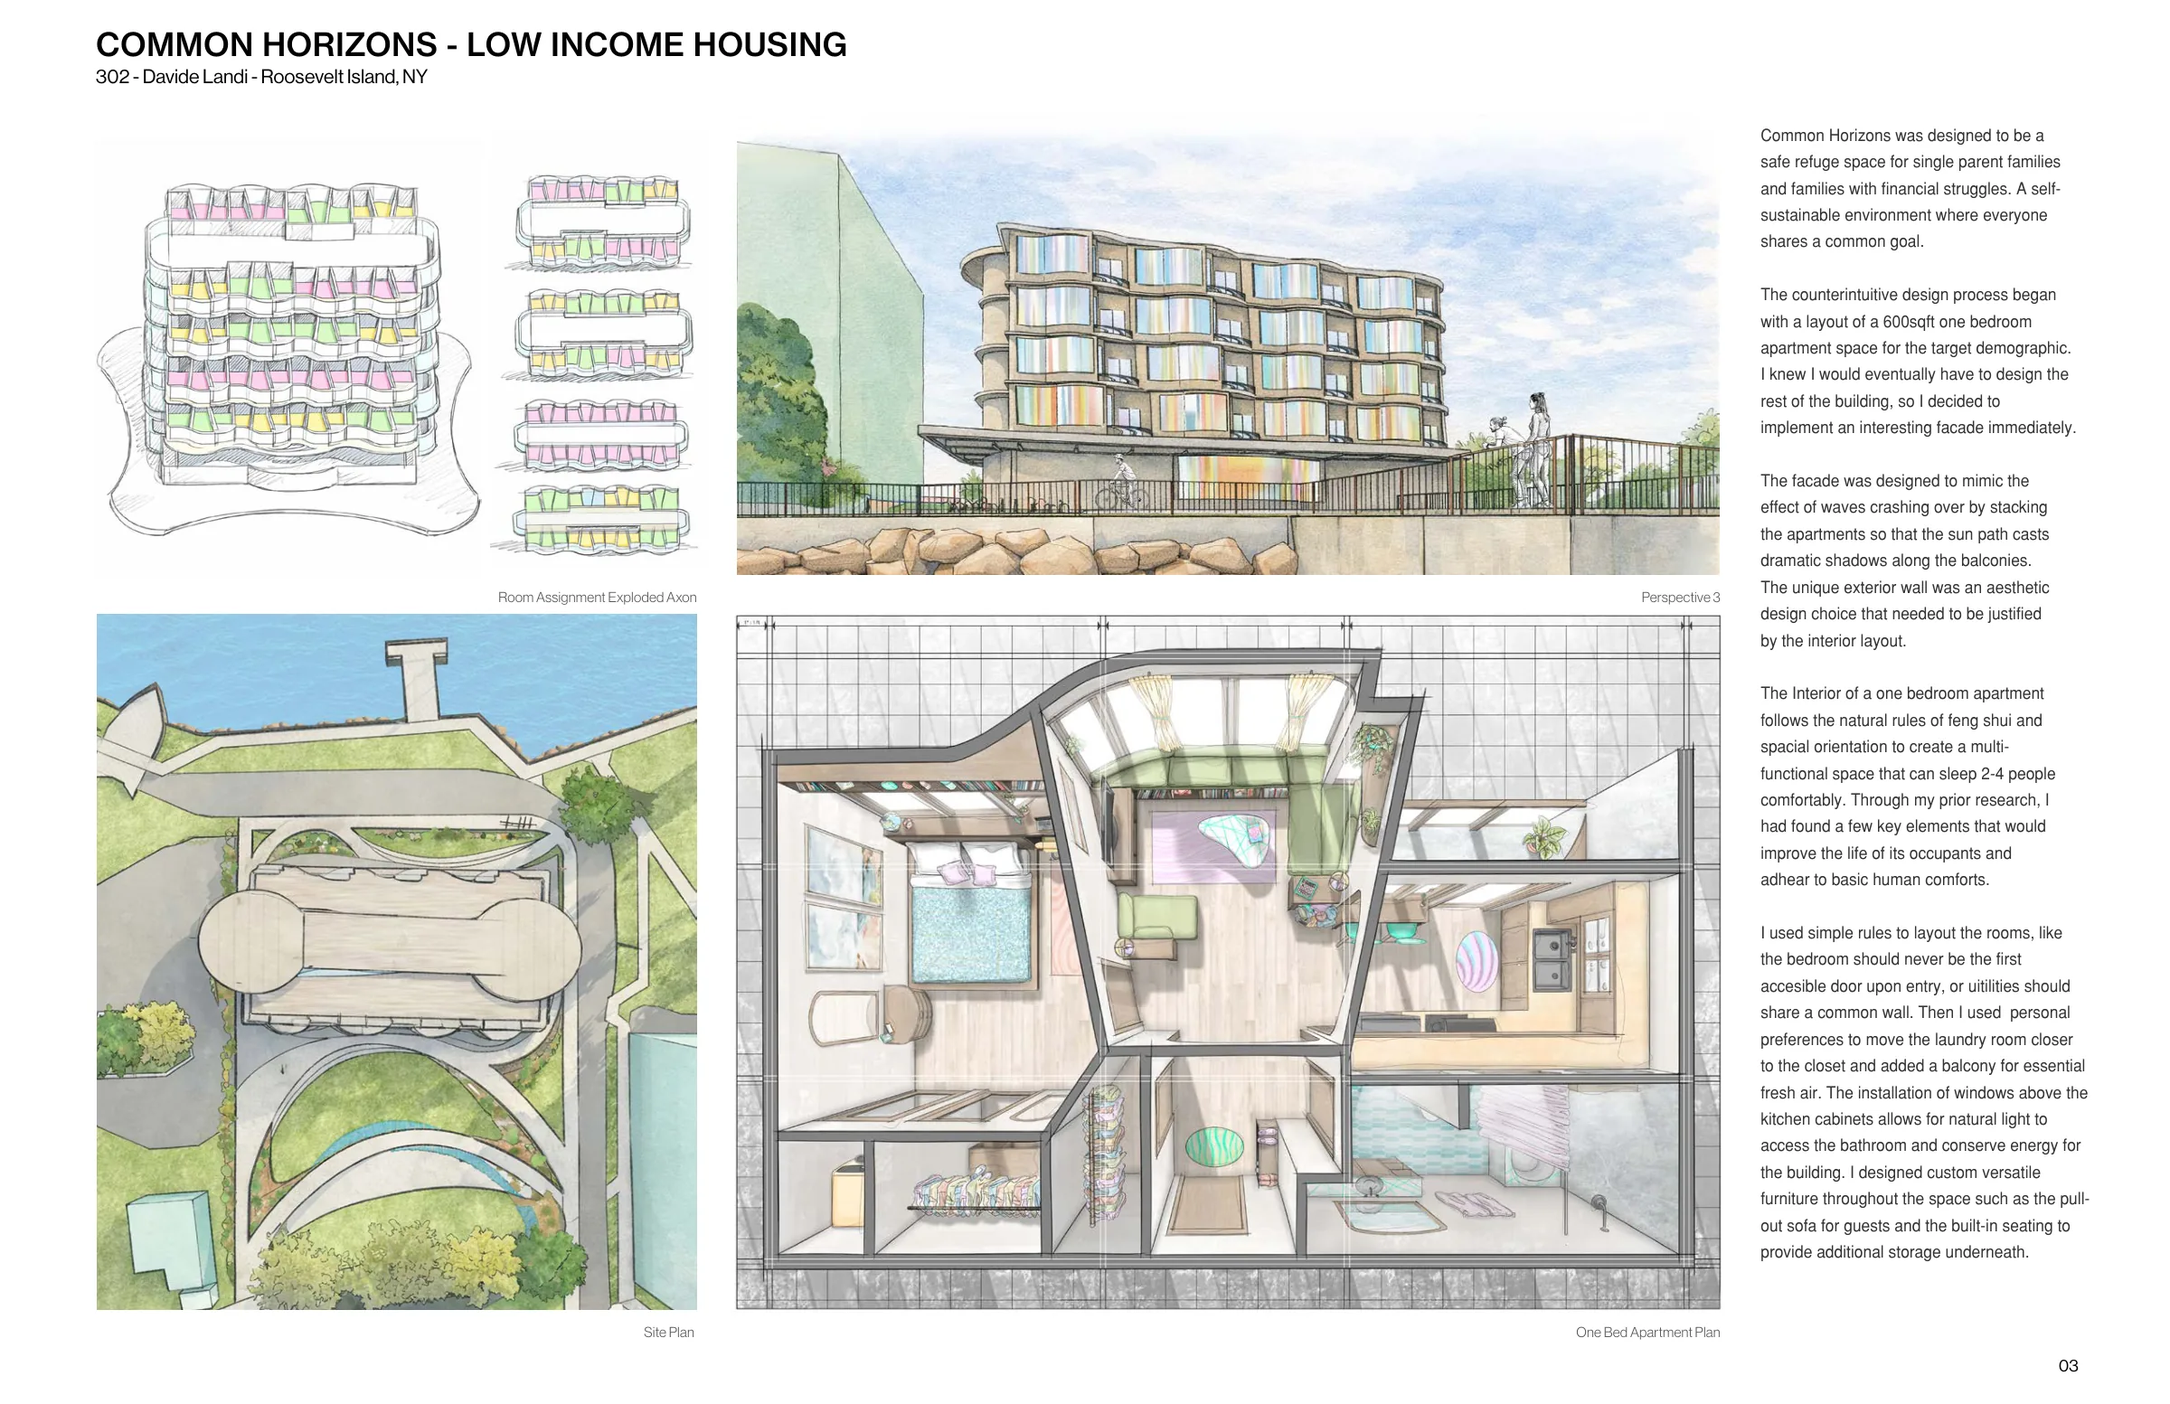
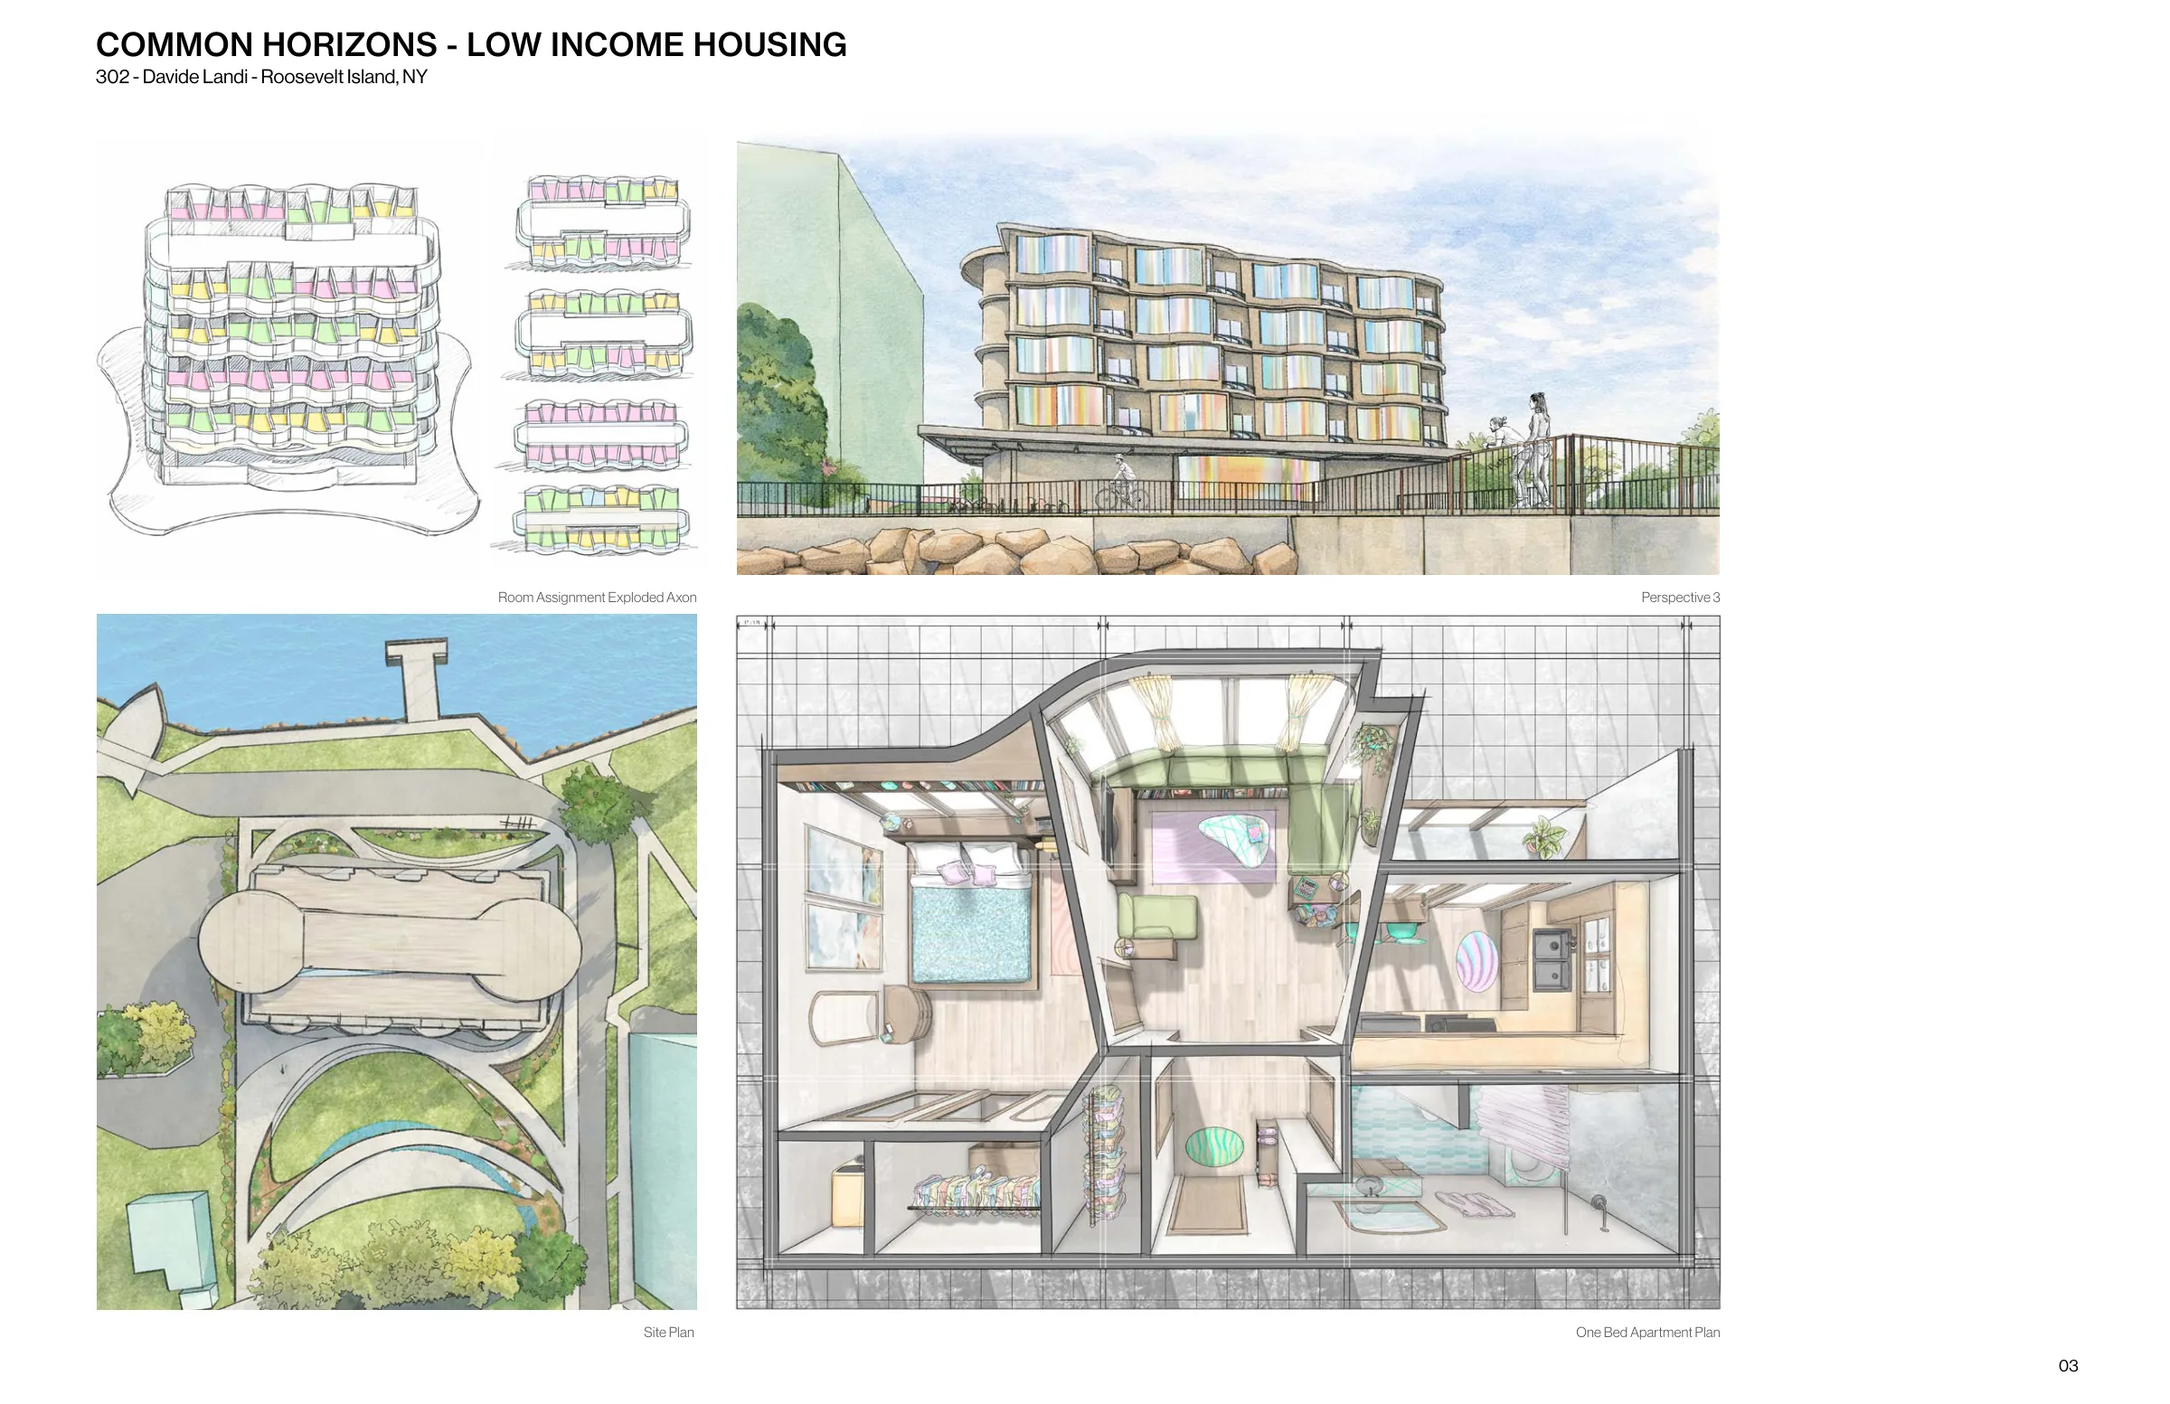
Move project write-ups onto each project's cover page
- Description paragraphs removed from the inner pages (4-5, 7-8, 10-11,
  13, 15-16, 18-20) and set as two-column text in the cover's white space
- Text is real HTML (Helvetica), ~15px on a laptop; single column on phones
- Site-plan legend on page 11 and drawing labels stay where they were

Changed region(s): [[0.8125, 0.4945, 0.9688, 0.8963], [0.8125, 0.0927, 0.9688, 0.3091], [0.8125, 0.34, 0.9375, 0.4636]]

diff --git a/index.html b/index.html
@@ -65,9 +65,18 @@
     </section>
 
     <section class="page" id="common-horizons" aria-label="Page 3 — Common Horizons">
-      <div class="page-head">
+      <div class="page-head has-text">
         <h2>COMMON HORIZONS - LOW INCOME HOUSING</h2>
         <p>302 - Davide Landi - Roosevelt Island, NY</p>
+        <div class="project-text">
+          <p>Roosevelt Island, the thin strip of land between Manhattan and Staten Island, is typically considered an undesirable and innaccessible spot for native New Yorkers. People commute along the A Line every day over the island, but few get off to their final destination.</p>
+          <p>The Common Horizon housing project for low income families utilizes the isolated nature of Roosevelt Island to help people get back on their feat. The housing development is aimed toward finding employment and purpose which are integral for life satisfaction. Cafes, vegetable gardens, therapy groups, daycare, and job application mentorship foster a self-sustaining environment for struggling families to thrive.</p>
+          <p>Common Horizons was designed to be a safe refuge space for single parent families and families with financial struggles. A self-sustainable environment where everyone shares a common goal.</p>
+          <p>The counterintuitive design process began with a layout of a 600sqft one bedroom apartment space for the target demographic. I knew I would eventually have to design the rest of the building, so I decided to implement an interesting facade immediately.</p>
+          <p>The facade was designed to mimic the effect of waves crashing over by stacking the apartments so that the sun path casts dramatic shadows along the balconies. The unique exterior wall was an aesthetic design choice that needed to be justified by the interior layout.</p>
+          <p>The Interior of a one bedroom apartment follows the natural rules of feng shui and spacial orientation to create a multi-functional space that can sleep 2-4 people comfortably. Through my prior research, I had found a few key elements that would improve the life of its occupants and adhear to basic human comforts.</p>
+          <p>I used simple rules to layout the rooms, like the bedroom should never be the first accesible door upon entry, or uitilities should share a common wall. Then I used personal preferences to move the laundry room closer to the closet and added a balcony for essential fresh air. The installation of windows above the kitchen cabinets allows for natural light to access the bathroom and conserve energy for the building. I designed custom versatile furniture throughout the space such as the pull-out sofa for guests and the built-in seating to provide additional storage underneath.</p>
+        </div>
       </div>
       <div class="sheet">
         <img src="assets/pages/page-03.webp" width="2400" height="1553" loading="lazy" alt="Common Horizons — Spring 2024, individual project.">
@@ -81,9 +90,20 @@
     </section>
 
     <section class="page" id="carnegie-library" aria-label="Page 6 — Carnegie Library Reuse &amp; Community Center">
-      <div class="page-head">
+      <div class="page-head has-text">
         <h2>CARNEGIE LIBRARY REUSE &amp; COMMUNITY CENTER</h2>
         <p>401 - Shelby Doyle - Marshalltown, IA</p>
+        <div class="project-text">
+          <p>Through adaptive reuse and the addition of a large community center, the old Carnegie Public Library is reimagined to help the community and carry Andrew Carnegie's original intention of accessible public education.</p>
+          <p>Sitting in the heart of a once promising industrial town, the shell of the original Carnegie Public Library now acts as a storage shed for the city municipality.</p>
+          <p>Marshalltown, Iowa was an industrial hub for central Iowa in the early 20th century, but after its two major factories closed in the 80's, half the town's population found themselves unemployed. The city never quite recovered as drug abuse and crime rates became increasingly prevelant.</p>
+          <p>Unfortunately, many individuals are still dealing with the trauma of a struggling household, and the current state of poverty and drug afflictions are unmistakably clear.</p>
+          <p>After a major tornado struck Marshalltown in 2018, most of downtown sits in disrepair with many stores fronts and restaurants boarded up. The delapidated state of the city has had the largest impact on kids, as many come from struggling households that aren't receiving the resources they need because the school-board can't afford to help.</p>
+          <p>The Carnegie Library renovation and Community Center addition aims to provide a safe space for the community to learn and interact together. This would Ideally help adults and kids get off the street and into a stimulating environment that features a variety of activity spaces and resources geared towards building strong life skills.</p>
+          <p>The renovation of the Marshalltown Carnegie Library into an artist residency and community center aimed to revitalize and inspire the public through collaboration and access to a variety of creative spaces.</p>
+          <p>With the intention of preserving the frame of the original Carnegie Library, the 30,000 sqft addition had to complement the original Neoclassical style without copying it. The design uses a similar language of hierarchy, rythm, and symmetry, but intervenes through modern material usage, irregular geometry, and Current Accessibility Requirements.</p>
+          <p>Extending the original curve of the library to show the existing brick facade creates a welcoming intellectual environement for creatives. The remaining space becomes a multipurpose courtyard for community gathering.</p>
+        </div>
       </div>
       <div class="sheet">
         <img src="assets/pages/page-06.webp" width="2400" height="1553" loading="lazy" alt="Carnegie Library Reuse &amp; Community Center — Fall 2024, in collaboration with Eric Cool.">
@@ -97,9 +117,19 @@
     </section>
 
     <section class="page" id="prairie-revival" aria-label="Page 9 — Prairie Revival">
-      <div class="page-head">
+      <div class="page-head has-text">
         <h2>PRAIRIE REVIVAL - CONSERVATION CENTER</h2>
         <p>301 - Roman Chikerinets - McFarland Lake Park, IA</p>
+        <div class="project-text">
+          <p>A retention swale and lookout vista to observe the natural rolling prairies of Iowa.</p>
+          <p>After guests pass through a series of immersive conservation spaces, they find themselves in the lowest topographic section of the park. By implementing a retention swale, guests are insentivized to return and experience the space seasonally. The utilization of local stone and wetland plants on site aim to improve biodiversity without impacting the natural topography or drainage.</p>
+          <p>The Conservation Center was designed to promote circulation and exploration while preserving the natural beauty of the area.</p>
+          <p>Tucked within the gentle landscape, of rural Iowa, Prairie Revival maintains a harmonius relationship with the land, refusing to further terraform the region. While the land had been worked by farmers for over a century, Prairie Revival takes a more passive approach by letting nature take the lead, and potentially reintroducing key native species.</p>
+          <p>An internal central passage opens to the natural elements, giving guests a space to decompress and connect with nature from indoors.</p>
+          <p>The main atrium was designed to immerse the guests into the prairie and cast sunlight throughout the day.</p>
+          <p>By planting a shallow bed of lowlight prairie species inside, I created an infinity pool effect that blends the main atrium seamlessly into the surrounding prairie. One-way mirror glass allows for optimal viewing from the inside while not obstructing the landscape from an exterior perspective.</p>
+          <p>This multi-purpose atrium space was designed to isolate and absorb sound, allowing meetings, tours, parties and other social gatherings to enjoy the scenery.</p>
+        </div>
       </div>
       <div class="sheet">
         <img src="assets/pages/page-09.webp" width="2400" height="1553" loading="lazy" alt="Prairie Revival — Fall 2023, in collaboration with Ryan Ruppel &amp; Ella Carlock.">
@@ -113,9 +143,14 @@
     </section>
 
     <section class="page" id="verum-sanctorum" aria-label="Page 12 — Verum Sanctorum">
-      <div class="page-head">
+      <div class="page-head has-text">
         <h2>VERUM SANCTORUM - REFUGEE HOUSING</h2>
         <p>402 - Consuelo Nunez Ciuffa, Rome, IT</p>
+        <div class="project-text">
+          <p>Verum Sanctorum is a sanctuary for the many refugees that come to Italy in search of asylum and employment.</p>
+          <p>Across the road from the ancent ruins of the Roman Forum and Colosseum sits a small overgrown plot of land isolated by an infamous wall from the fascist era.</p>
+          <p>Millions of unaware tourists pass by the site annually, as they rush to nearby landmarks, while many refugees linger in the area trying to sell small handmade trickets. While these refugees are often viewed as intrusive or threatening, they come from unimaginable conditions with little identification or access to the resources they need. Verum Sanctorum utilizes the privacy of the site to house refugees temporarily and provide crucial support through Italian language courses, job application specialists, peer mentors, and documentation specialists</p>
+        </div>
       </div>
       <div class="sheet">
         <img src="assets/pages/page-12.webp" width="2400" height="1553" loading="lazy" alt="Verum Sanctorum — Spring 2025, in collaboration with Maggie Wolfe &amp; Gillian Gilinokis.">
@@ -126,9 +161,16 @@
     </section>
 
     <section class="page" id="prairie-forward" aria-label="Page 14 — Prairie Forward">
-      <div class="page-head">
+      <div class="page-head has-text">
         <h2>PRAIRIE FORWARD - PUBLIC INSTALLATION</h2>
         <p>301 - Roman Chikerinets - McFarland Lake Park, IA</p>
+        <div class="project-text">
+          <p>An instillation and bee habitat designed to slow down the public and provide awareness about the vital impact bees have on the ecosystem.</p>
+          <p>Iowa is one of the the most important agricultural states in the United States, so most of the land has been cultivated leaving very few truly conserved areas in the state. The insects that rely on prairie flowers also help cultivate farm fields, meaning they are crucial to agriculture.</p>
+          <p>Upon visiting the park, I noticed one wild flower, Canadian Goldenrod, had a far greater ratio of bees to stem. Research showed that bees have a limited perception of the color spectrum, leaving them particularily more attracted to bright colors, like the colors of Goldenrod.</p>
+          <p>Inspired by the organic shape of Goldenrod and the geometric sequences found from the plants study, I designed a layered system of habitats to give the public a protected view of the bees that keep the prairie alive.</p>
+          <p>A thin yellow mesh attracts the bees to hollow wood cylanders for them to rest in. The mesh has small holes to allow for public viewing, while still holding off water droplets and birds.</p>
+        </div>
       </div>
       <div class="sheet">
         <img src="assets/pages/page-14.webp" width="2400" height="1553" loading="lazy" alt="Prairie Forward — Fall 2023, individual project.">
@@ -142,9 +184,20 @@
     </section>
 
     <section class="page" id="isu-arboretum" aria-label="Page 17 — ISU Arboretum">
-      <div class="page-head">
+      <div class="page-head has-text">
         <h2>ISU ARBORETUM - PUBLIC PAVILION</h2>
         <p>202 - Reinaldo Correa-Diaz - Iowa State University Arboretum, IA</p>
+        <div class="project-text">
+          <p>Inspired by the ergonomic functionality of the Gufram Pratone chair by Pietro Derossi, I created a number of biophilic coverage examples to determine which system was touched and interacted with the most.</p>
+          <p>Testing the durability and flexibility of various types of cardboard garnered a new appreciation for the maliabilty of the material. Slicing the cardboard along the corrugation lines allowed the material to bend on one axis and maintain structural integrity along every other axis.</p>
+          <p>A scaled prototype of the design was produced along with drawings of the potential applications. Though successful, the reviewers couldn't help but fidget with the prior study models.</p>
+          <p>A pavilion and entrance path designed to gather attention from the street and guide the public to the main threshold of the arboretum.</p>
+          <p>Legible signage, a clear entrance point, and a gentle ramp offer an alternative to the current dangerous conditions that are a liabilty for the University.</p>
+          <p>A system of sensory walls utilizing the biophillic cardboard studies guide guests along the path, distracting them from the road and building anticipation for whatever lays beyond the pavilion bridge.</p>
+          <p>I chose to place my pavilion design in the Iowa State Arboretum because it holds a particularily special place in my heart. I have used the Arboretum as a comfort place to decompress and be with nature since my first week of University, and I have always felt that the location didn't receive the maintenance or public attention that it deserved.</p>
+          <p>Placing the pavilion before the bridge gave the public a glance of the space from the road, while hiding the main portion of the Arboretum until they get through the bridge section.</p>
+          <p>The interior of the pavilion features custom seating, tables, and mini library, as well as site maps marking the unique tree species from all over the world.</p>
+        </div>
       </div>
       <div class="sheet">
         <img src="assets/pages/page-17.webp" width="2400" height="1553" loading="lazy" alt="ISU Arboretum — Spring 2023, individual project.">

diff --git a/assets/site.css b/assets/site.css
@@ -121,13 +121,28 @@ body {
   letter-spacing: 0.005em;
   text-wrap: balance;
 }
-.page-head p {
+.page-head > p {
   margin: 0.45em 0 0;
   font-size: 1.3cqw;
   line-height: 1.3;
 }
+/* Project write-ups, moved from the inner pages into the cover page's white space */
+.page-head.has-text { max-width: 60%; }
+.project-text {
+  margin-top: 2.4cqw;
+  columns: 2;
+  column-gap: 2.8cqw;
+  font-size: 1.05cqw;
+  line-height: 1.55;
+  color: #2b2b2b;
+  orphans: 2;
+  widows: 2;
+}
+.project-text p { margin: 0 0 0.85em; }
+.project-text p:last-child { margin-bottom: 0; }
+
 .page-head.compact h2 { font-size: 2cqw; }
-.page-head.compact p { font-size: 1.15cqw; margin-top: 0.3em; }
+.page-head.compact > p { font-size: 1.15cqw; margin-top: 0.3em; }
 
 /* ---------- Table of contents ---------- */
 
@@ -287,8 +302,15 @@ a:focus-visible > .peek { opacity: 1; visibility: visible; transform: none; }
   }
   .page-head h2,
   .page-head.compact h2 { font-size: 18px; }
-  .page-head p,
-  .page-head.compact p { font-size: 12px; }
+  .page-head > p,
+  .page-head.compact > p { font-size: 12px; }
+  .page-head.has-text { max-width: none; }
+  .project-text {
+    columns: 1;
+    margin-top: 14px;
+    font-size: 14px;
+    line-height: 1.55;
+  }
 
   .page.toc { aspect-ratio: auto; padding-bottom: 24px; }
   .toc-grid {
